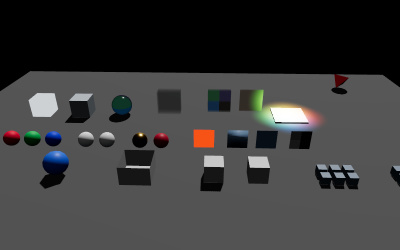
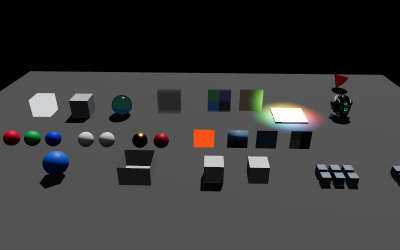
feat(examples): add render paths, a glTF model, and WASD to complexity debug
Switch between direct, scene pass, and MRT scene pass rendering to reproduce post-processing stacks. Add the DamagedHelmet glTF so every buffer view has real maps, and move the camera with WASD. Update the e2e screenshot.

Model: Claude Opus 5.5

Changed region(s): [[0.81, 0.364, 0.9, 0.504]]

diff --git a/examples/webgpu_complexity_debug.html b/examples/webgpu_complexity_debug.html
@@ -20,9 +20,11 @@
 			</div>
 
 			<small>
-				Back: basic, standard, physical, 8 cheap layers, 4 physical layers, 2 Lambert layers, light overlap.<br/>
+				Back: basic, standard, physical, 8 cheap layers, 4 physical layers, 2 Lambert layers, light overlap, glTF model.<br/>
 				Middle: RGB, rough/smooth, metal/plastic, emissive, normal/flat, AO.<br/>
-				Front: near LOD, far LOD, open box, caster / non-caster, separate meshes, one instanced mesh.
+				Front: near LOD, far LOD, open box, caster / non-caster, separate meshes, one instanced mesh.<br/>
+				Render path: direct to canvas, a scene pass, or an MRT scene pass (output, normal, emissive) like a post-processing stack.<br/>
+				WASD moves the camera, mouse orbits.
 			</small>
 		</div>
 
@@ -41,13 +43,23 @@
 
 			// WITH_GENESYS
 			import * as THREE from 'three/webgpu';
+			import { pass, mrt, output, emissive, normalView, packNormalToRGB } from 'three/tsl';
 
 			import { Inspector } from 'three/addons/inspector/Inspector.js';
 			import { OrbitControls } from 'three/addons/controls/OrbitControls.js';
+			import { GLTFLoader } from 'three/addons/loaders/GLTFLoader.js';
 			import { GUI } from 'three/addons/libs/lil-gui.module.min.js';
 
-			let camera, scene, renderer;
+			let camera, scene, renderer, renderPipeline, controls;
 			let viewController, shaderBudget, overdrawBudget;
+
+			// WASD moves the camera and the orbit target together on the ground plane.
+			const moveKeys = { KeyW: false, KeyA: false, KeyS: false, KeyD: false };
+			const moveSpeed = 6;
+			const moveForward = new THREE.Vector3();
+			const moveRight = new THREE.Vector3();
+			const moveOffset = new THREE.Vector3();
+			let lastTime = null;
 
 			// New views are added here. `key` is optional.
 			const modes = [
@@ -67,7 +79,14 @@
 				{ id: 'drawCall', view: 'drawCall', label: 'Draw call' }
 			];
 
-			const params = { view: 'shaded' };
+			// `direct` draws to the canvas. The pass paths draw the scene into a render target first.
+			const renderPaths = {
+				'Direct': 'direct',
+				'Scene pass': 'scenePass',
+				'MRT scene pass': 'mrtScenePass'
+			};
+
+			const params = { view: 'shaded', path: 'direct' };
 
 			init();
 
@@ -349,6 +368,26 @@
 
 				} );
 
+				// glTF: a real asset with base color, normal, metal/roughness, AO and emissive maps.
+				new GLTFLoader().load( 'models/gltf/DamagedHelmet/glTF/DamagedHelmet.gltf', ( gltf ) => {
+
+					const model = gltf.scene;
+					model.scale.setScalar( 0.55 );
+					model.position.set( 7, 0.6, - 1.6 );
+					model.traverse( ( child ) => {
+
+						if ( child.isMesh ) {
+
+							child.castShadow = true;
+							child.receiveShadow = true;
+
+						}
+
+					} );
+					scene.add( model );
+
+				} );
+
 				// Buffer views: albedo, roughness, metalness, emissive, normal, AO.
 				const swatch = new THREE.SphereGeometry( 0.32, 32, 20 );
 
@@ -436,7 +475,9 @@
 				renderer.inspector = new Inspector();
 				document.body.appendChild( renderer.domElement );
 
-				const controls = new OrbitControls( camera, renderer.domElement );
+				renderPipeline = new THREE.RenderPipeline( renderer );
+
+				controls = new OrbitControls( camera, renderer.domElement );
 				controls.target.set( 0, 0.5, 0.4 );
 				controls.update();
 
@@ -444,6 +485,8 @@
 
 				window.addEventListener( 'resize', onWindowResize );
 				window.addEventListener( 'keydown', onKeyDown );
+				window.addEventListener( 'keyup', onKeyUp );
+				window.addEventListener( 'blur', releaseMoveKeys );
 				window.addEventListener( 'genesys-debug-view', onDebugView );
 
 				await renderer.init();
@@ -495,6 +538,27 @@
 
 			}
 
+			function applyRenderPath( path ) {
+
+				if ( path === 'direct' ) return;
+
+				const scenePass = pass( scene, camera );
+
+				if ( path === 'mrtScenePass' ) {
+
+					scenePass.setMRT( mrt( {
+						output,
+						normal: packNormalToRGB( normalView ),
+						emissive
+					} ) );
+
+				}
+
+				renderPipeline.outputNode = scenePass.getTextureNode( 'output' );
+				renderPipeline.needsUpdate = true;
+
+			}
+
 			function createDebugUI() {
 
 				const gui = new GUI( { title: 'Debug' } );
@@ -502,6 +566,7 @@
 
 				for ( const mode of modes ) labels[ mode.label ] = mode.id;
 
+				gui.add( params, 'path', renderPaths ).name( 'Render path' ).onChange( applyRenderPath );
 				viewController = gui.add( params, 'view', labels ).name( 'View' ).onChange( applyMode );
 				shaderBudget = gui.add( renderer.debug, 'shaderComplexityBudget', 50, 4000, 10 ).name( 'Shader budget' );
 				overdrawBudget = gui.add( renderer.debug, 'quadOverdrawBudget', 1, 40, 1 ).name( 'Overdraw budget' );
@@ -525,11 +590,56 @@
 
 				if ( event.target instanceof HTMLInputElement || event.target instanceof HTMLSelectElement ) return;
 
+				if ( event.code in moveKeys ) {
+
+					moveKeys[ event.code ] = true;
+					return;
+
+				}
+
 				const mode = modes.find( ( entry ) => entry.key === event.key );
 
 				if ( mode === undefined ) return;
 
 				applyMode( mode.id );
+
+			}
+
+			function onKeyUp( event ) {
+
+				if ( event.code in moveKeys ) moveKeys[ event.code ] = false;
+
+			}
+
+			function releaseMoveKeys() {
+
+				for ( const code in moveKeys ) moveKeys[ code ] = false;
+
+			}
+
+			function updateMovement( delta ) {
+
+				const forward = Number( moveKeys.KeyW ) - Number( moveKeys.KeyS );
+				const right = Number( moveKeys.KeyD ) - Number( moveKeys.KeyA );
+
+				if ( forward === 0 && right === 0 ) return;
+
+				camera.getWorldDirection( moveForward );
+				moveForward.y = 0;
+
+				if ( moveForward.lengthSq() === 0 ) return;
+
+				moveForward.normalize();
+				moveRight.crossVectors( moveForward, camera.up ).normalize();
+
+				moveOffset.set( 0, 0, 0 )
+					.addScaledVector( moveForward, forward )
+					.addScaledVector( moveRight, right )
+					.setLength( moveSpeed * delta );
+
+				camera.position.add( moveOffset );
+				controls.target.add( moveOffset );
+				controls.update();
 
 			}
 
@@ -541,9 +651,22 @@
 
 			}
 
-			function render() {
+			function render( time ) {
 
-				renderer.render( scene, camera );
+				const delta = lastTime === null ? 0 : Math.min( ( time - lastTime ) / 1000, 0.1 );
+				lastTime = time;
+
+				updateMovement( delta );
+
+				if ( params.path === 'direct' ) {
+
+					renderer.render( scene, camera );
+
+				} else {
+
+					renderPipeline.render();
+
+				}
 
 			}
 			// !WITH_GENESYS
